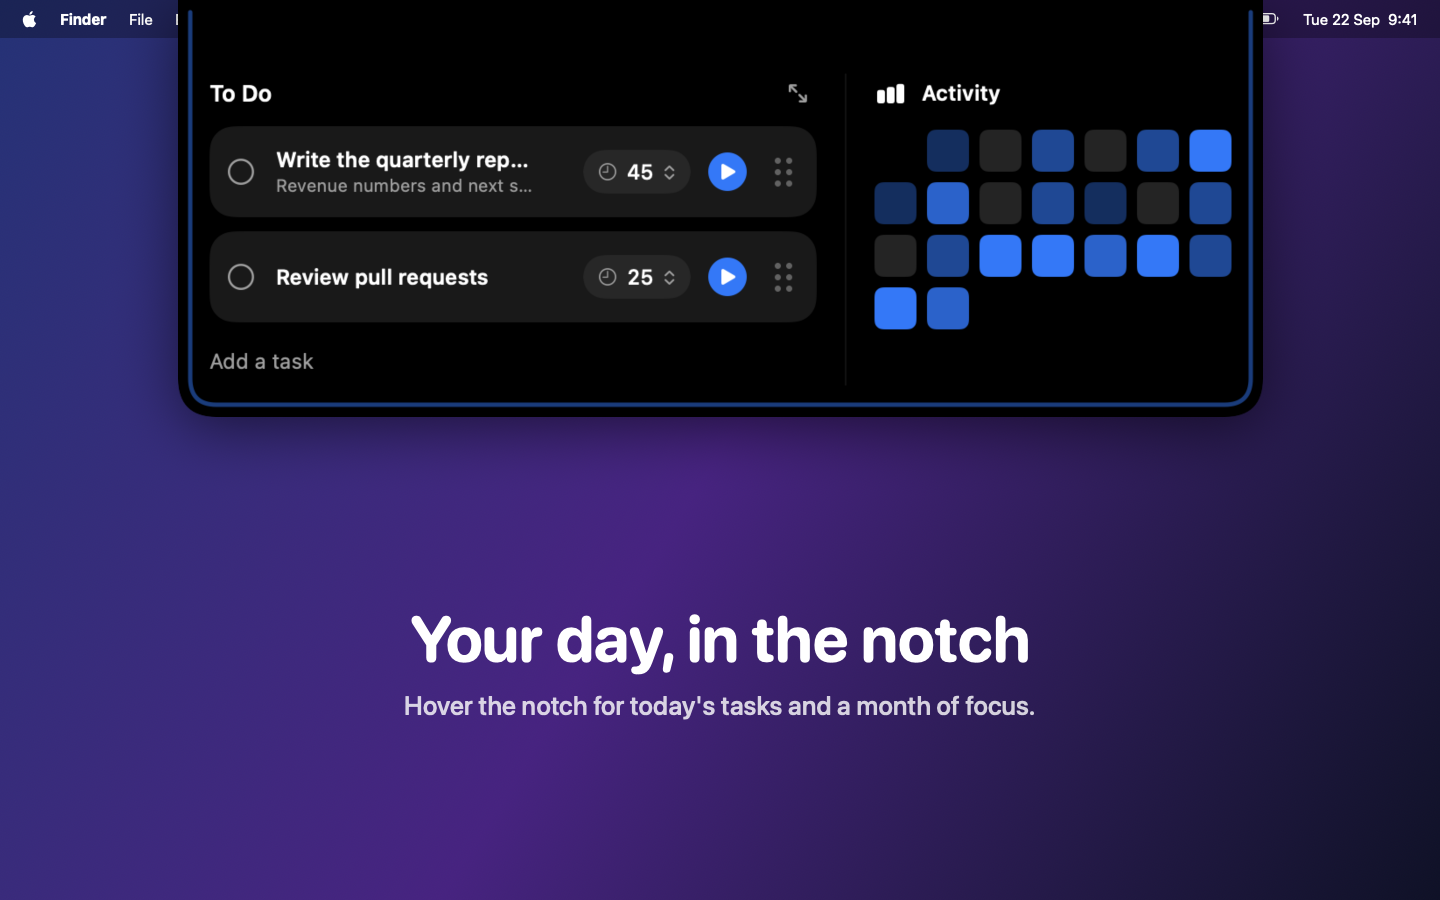
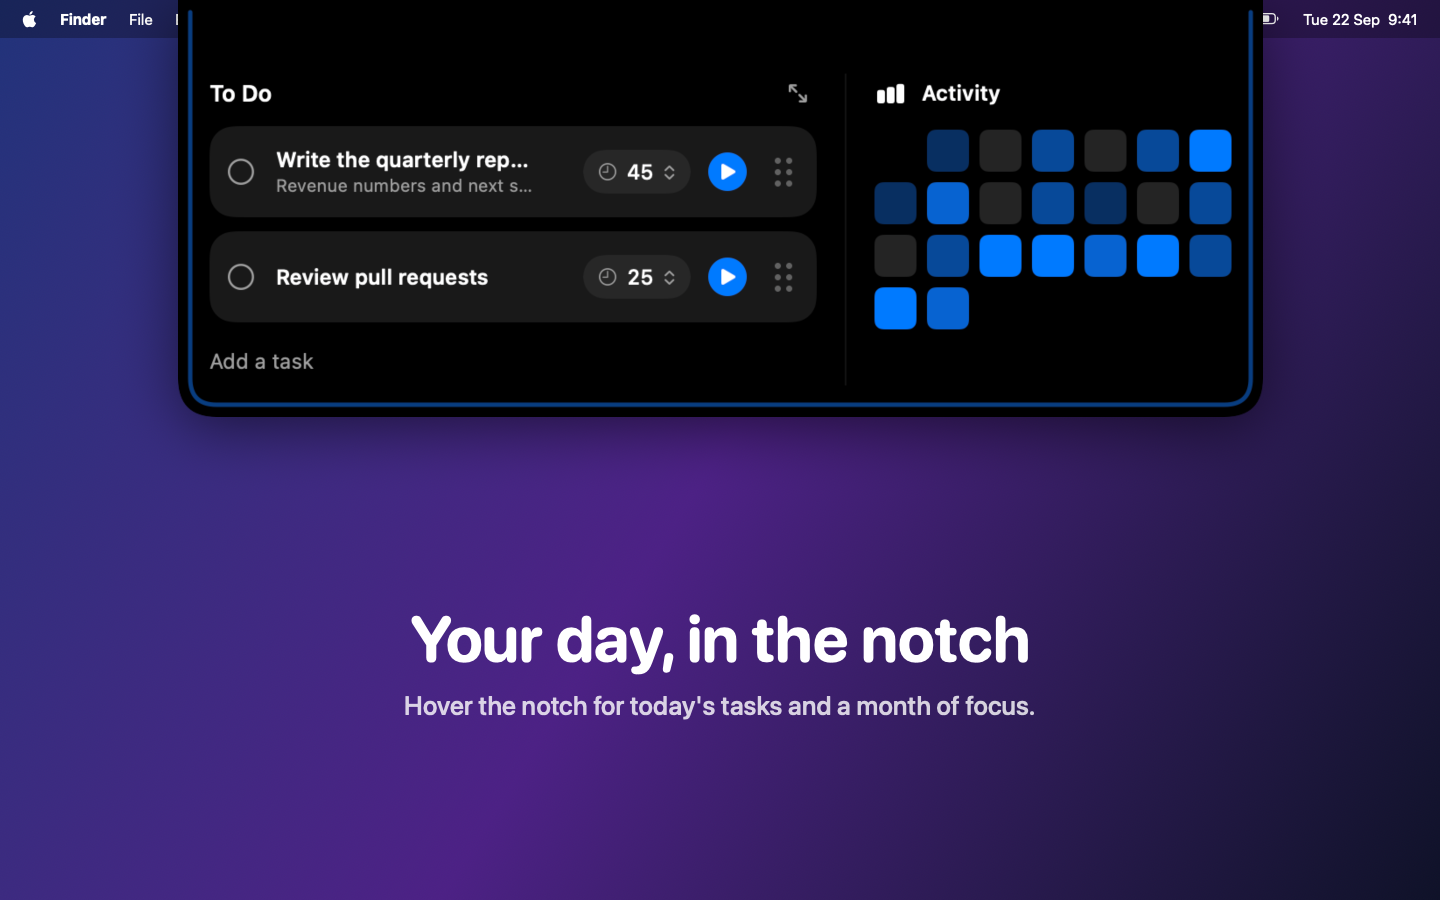
chore(appstore): write screenshots as 8-bit sRGB PNG
The renderer's 16-bit RGBA output made 13-16MB files, over the upload limit.
Flattened they are about 3MB (store) and under 1MB (README).

diff --git a/appstore/screenshots/compose.swift b/appstore/screenshots/compose.swift
@@ -193,7 +193,12 @@ func write<V: View>(_ view: V, scale: CGFloat, to url: URL) {
     let renderer = ImageRenderer(content: view)
     renderer.scale = scale
     guard let cg = renderer.cgImage else { fatalError("render failed: \(url.lastPathComponent)") }
-    try! NSBitmapImageRep(cgImage: cg).representation(using: .png, properties: [:])!.write(to: url)
+    // Flatten to 8-bit sRGB without alpha: the renderer's 16-bit RGBA made 15MB files, too big for the store upload.
+    let ctx = CGContext(data: nil, width: cg.width, height: cg.height, bitsPerComponent: 8, bytesPerRow: 0,
+                        space: CGColorSpace(name: CGColorSpace.sRGB)!,
+                        bitmapInfo: CGImageAlphaInfo.noneSkipLast.rawValue)!
+    ctx.draw(cg, in: CGRect(x: 0, y: 0, width: cg.width, height: cg.height))
+    try! NSBitmapImageRep(cgImage: ctx.makeImage()!).representation(using: .png, properties: [:])!.write(to: url)
     print("wrote \(url.path)")
 }
 
